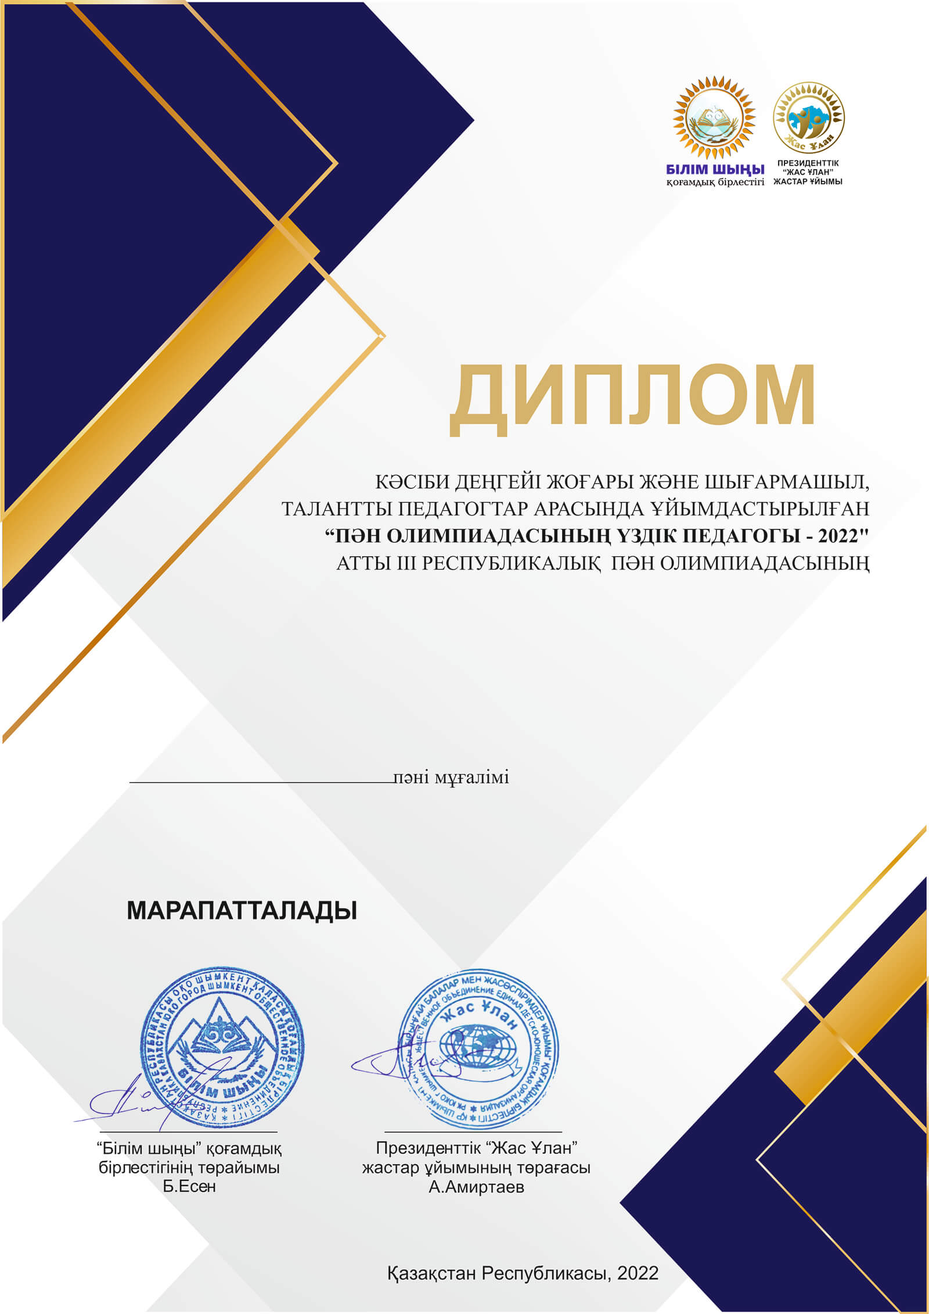
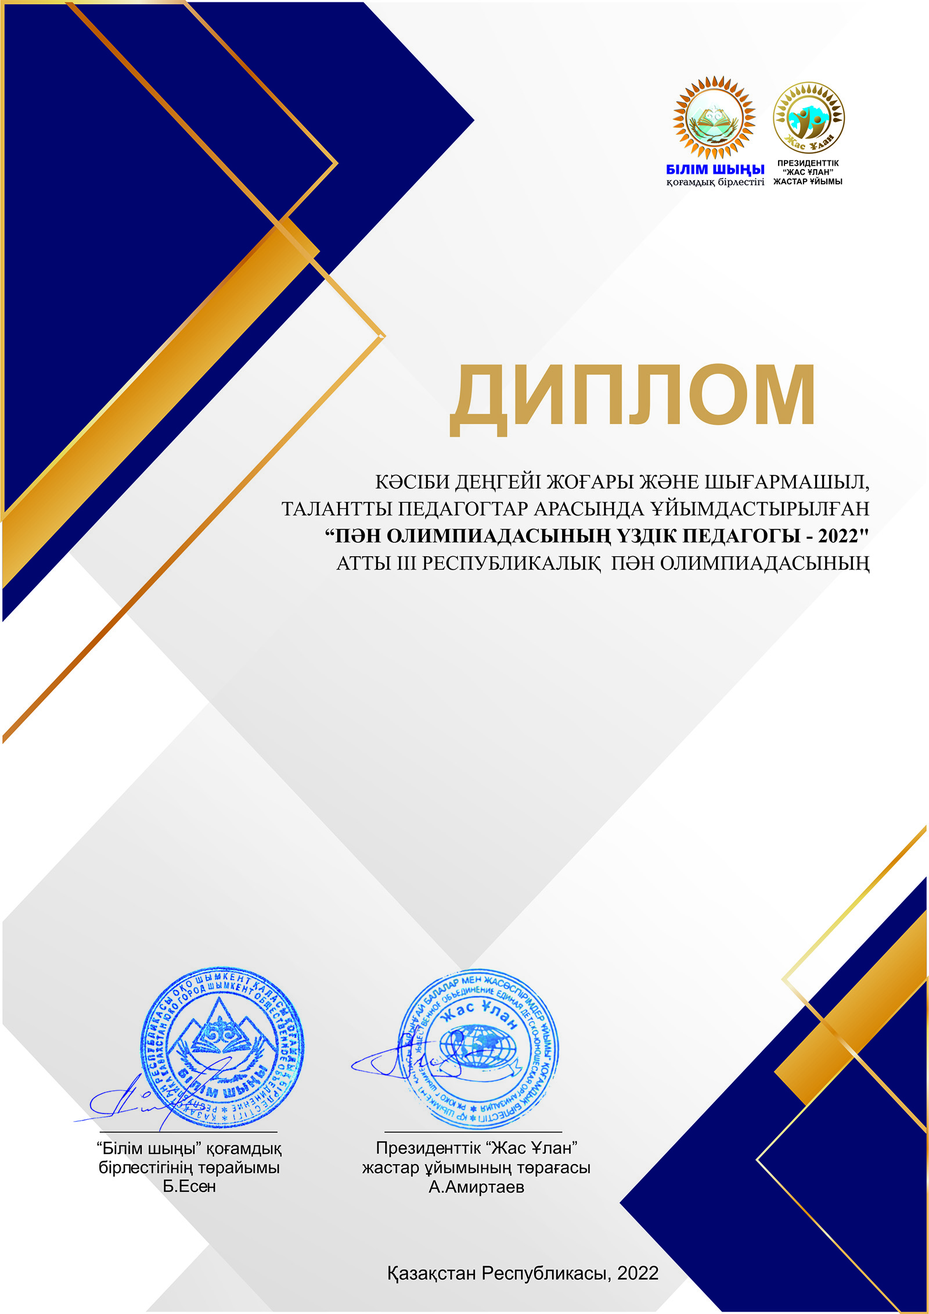
Olympiad fixes

diff --git a/frontend/views/site/index.php b/frontend/views/site/index.php
@@ -45,7 +45,7 @@ $this->registerMetaTag([
                              data-paddingbottom="['15','8','8','8']"
                              data-paddingright="['0','0','0','0']"
                              data-paddingleft="['0','0','0','0']"
-                             style="text-shadow: 0 0 20px rgba(0,0,0,0.3); font-style: italic;">ЖАРЫС! ЖАРЫС! ЖАРЫС!</div>
+                             style="text-shadow: 0 0 20px rgba(0,0,0,0.3);">Портфолиоға 100% жарамды</div>
 
                         <!-- main text layer -->
                         <div class="tp-caption tp-resizeme alt-font text-white font-weight-600"
@@ -53,23 +53,38 @@ $this->registerMetaTag([
                              data-frames='[{"delay":200,"speed":2000,"frame":"0","from":"y:[100%];z:0;rX:0deg;rY:0;rZ:0;sX:1;sY:1;skX:0;skY:0;opacity:0;","mask":"x:0px;y:[-100%];s:inherit;e:inherit;","to":"o:1;","ease":"Power2.easeInOut"},{"delay":"wait","speed":300,"frame":"999","to":"auto:auto;","ease":"Power3.easeInOut"}]'
                              data-type="text"
                              data-whitespace="nowrap"
-                             data-x="['left','center','center','center']"
-                             data-hoffset="['0','0','0','0']"
-                             data-y="['middle','middle','middle','middle']"
-                             data-voffset="['-20','-50','-115','-65']"
+                             data-x="['left','center','center','center']" data-hoffset="['0','0','0','0']"
+                             data-y="['middle','middle','middle','middle']" data-voffset="['-50','-50','-115','-65']"
                              data-width="auto"
                              data-height="auto"
                              data-fontsize="['70','53','60','35']"
-                             data-lineheight="['82','79','70','39']"
-                             data-letterspacing="['0','0','0','0']"
+                             data-lineheight="['70','59','70','39']"
+                             data-letterspacing="['-2','-1','-1','-1']"
                              data-responsive="on"
                              data-responsive_offset="on"
                              data-paddingtop="['0','0','0','0']"
                              data-paddingbottom="['15','8','8','8']"
                              data-paddingright="['0','0','0','0']"
                              data-paddingleft="['0','0','0','0']"
-                             style="text-shadow: 0 0 20px rgba(0,0,0,0.3);">«ЖАҢА ҚАЗАҚСТАН: <br>
-ЖАҚСЫ МҰҒАЛІМ»</div>
+                             style="text-shadow: 0 0 20px rgba(0,0,0,0.3);">"БАСПАСӨЗ-2022"</div>
+
+                        <!-- small text layer -->
+                        <div class="tp-caption tp-resizeme alt-font text-white font-weight-300"
+                             id="slide-411-layer-02"
+                             data-frames='[{"delay":1200,"speed":1000,"frame":"0","from":"y:[100%];z:0;rX:0deg;rY:0;rZ:0;sX:1;sY:1;skX:0;skY:0;opacity:0;","mask":"x:0px;y:[-100%];s:inherit;e:inherit;","to":"o:1;","ease":"Power2.easeInOut"},{"delay":"wait","speed":300,"frame":"999","to":"auto:auto;","ease":"Power3.easeInOut"}]'
+                             data-type="text"
+                             data-x="['left','center','center','center']" data-hoffset="['0','0','0','0']"
+                             data-y="['middle','middle','middle','middle']" data-voffset="['65','100','-5','15']"
+                             data-width="auto"
+                             data-height="auto"
+                             data-fontsize="['19','16','19','14']"
+                             data-lineheight="['28','14','23','20']"
+                             data-letterspacing="['0.5','0.5','0.5','0.5']"
+                             data-responsive="off"
+                             data-responsive_offset="on">
+                            БІЛІМ, ҒЫЛЫМ - МӘҢГІЛІК ҚАЗЫҒЫМЫЗ <br>
+                            ҚҰРМЕТТІ ҰСТАЗ, ЖУРНАЛҒА ЖАЗЫЛЫҢЫЗ!
+                        </div>
 
                         <!-- btn layer -->
                         <a class="tp-caption tp-resizeme rs-btn btn btn-rounded d-flex align-items-center justify-content-center"
@@ -88,7 +103,7 @@ $this->registerMetaTag([
                            data-paddingright="['7','7','7','7']"
                            data-paddingleft="['34','34','34','34']"
                            style="background-color: #00B057; color: #fff; font-size: 15px;">
-                            <?= Yii::t('app', 'Опубликовать материал') ?>
+                            <?= Yii::t('app', 'Подробнее') ?>
                             <div style="display: flex; justify-content: center; align-items: center; width: 38px; height: 38px; border-radius: 50%; background: #007C3E; margin-left: 19px;">
                                 <i class="fas fa-play" style="color: #fff; font-size: 12px; line-height: 15px; margin-top: 2px; margin-left: 3px;"></i>
                             </div>
@@ -101,26 +116,6 @@ $this->registerMetaTag([
                         <img src="/img/fon-5.jpg" alt="" data-bgcolor="#262b32" data-bgposition="center center" data-bgfit="cover" data-bgrepeat="no-repeat" data-bgparallax="off" class="rev-slidebg" data-no-retina>
 
                         <div class="overlay-bg bg-extra-dark-gray" style="opacity: 0.5;"></div>
-
-                        <div class="tp-caption tp-resizeme alt-font text-white font-weight-600 text-center"
-                             id="slide-411-layer-04"
-                             data-frames='[{"delay":200,"speed":2000,"frame":"0","from":"y:[100%];z:0;rX:0deg;rY:0;rZ:0;sX:1;sY:1;skX:0;skY:0;opacity:0;","mask":"x:0px;y:[-100%];s:inherit;e:inherit;","to":"o:1;","ease":"Power2.easeInOut"},{"delay":"wait","speed":300,"frame":"999","to":"auto:auto;","ease":"Power3.easeInOut"}]'
-                             data-type="text"
-                             data-whitespace="nowrap"
-                             data-x="['center','center','center','center']" data-hoffset="['0','0','0','0']"
-                             data-y="['middle','middle','middle','middle']" data-voffset="['-140','-50','-160','-100']"
-                             data-width="auto"
-                             data-height="auto"
-                             data-fontsize="['52','53','36','22']"
-                             data-lineheight="['70','59','70','39']"
-                             data-letterspacing="['-2','-1','-1','-1']"
-                             data-responsive="off"
-                             data-responsive_offset="off"
-                             data-paddingtop="['0','0','0','0']"
-                             data-paddingbottom="['15','8','8','8']"
-                             data-paddingright="['0','0','0','0']"
-                             data-paddingleft="['0','0','0','0']"
-                             style="text-shadow: 0 0 20px rgba(0,0,0,0.3);">ОЛИМПИАДА</div>
 
                         <!-- main text layer -->
                         <div class="tp-caption tp-resizeme alt-font text-white font-weight-600 text-center"
@@ -141,47 +136,7 @@ $this->registerMetaTag([
                              data-paddingbottom="['15','8','8','8']"
                              data-paddingright="['0','0','0','0']"
                              data-paddingleft="['0','0','0','0']"
-                             style="text-shadow: 0 0 20px rgba(0,0,0,0.3);">«ALTYN URPAQ»</div>
-
-                        <!-- small text layer -->
-                        <div class="tp-caption tp-resizeme alt-font text-white font-weight-300 text-center"
-                             id="slide-411-layer-05"
-                             data-frames='[{"delay":1200,"speed":1000,"frame":"0","from":"y:[100%];z:0;rX:0deg;rY:0;rZ:0;sX:1;sY:1;skX:0;skY:0;opacity:0;","mask":"x:0px;y:[-100%];s:inherit;e:inherit;","to":"o:1;","ease":"Power2.easeInOut"},{"delay":"wait","speed":300,"frame":"999","to":"auto:auto;","ease":"Power3.easeInOut"}]'
-                             data-type="text"
-                             data-x="['center','center','center','center']" data-hoffset="['0','0','0','0']"
-                             data-y="['middle','middle','middle','middle']" data-voffset="['80','100','-5','15']"
-                             data-width="auto"
-                             data-height="auto"
-                             data-fontsize="['24','13','19','18']"
-                             data-lineheight="['28','14','23','20']"
-                             data-letterspacing="['0.5','0.5','0.5','0.5']"
-                             data-responsive="off"
-                             data-responsive_offset="on">
-                            2 - 11 сынып оқушылары үшін
-                        </div>
-
-                        <!-- btn layer -->
-                        <a class="tp-caption tp-resizeme rs-btn btn btn-rounded d-flex align-items-center justify-content-center"
-                           href="<?= Url::to(['olympiad/assignment', 'id' => 88]) ?>"
-                           id="slide-411-layer-06"
-                           data-x="['center','center','center','center']" data-hoffset="['0','0','0','0']"
-                           data-y="['middle','middle','middle','middle']" data-voffset="['180','130','82','100']"
-                           data-whitespace="nowrap"
-                           data-type="button"
-                           data-responsive="off"
-                           data-responsive_offset="off"
-                           data-frames='[{"delay":1200,"speed":1000,"frame":"0","from":"y:[100%];z:0;rX:0deg;rY:0;rZ:0;sX:1;sY:1;skX:0;skY:0;opacity:0;","mask":"x:0px;y:[-100%];s:inherit;e:inherit;","to":"o:1;","ease":"Power2.easeInOut"},{"delay":"wait","speed":300,"frame":"999","to":"auto:auto;","ease":"Power3.easeInOut"}]'
-                           data-textAlign="['center','center','center','center']"
-                           data-paddingtop="['8','8','8','8']"
-                           data-paddingbottom="['8','8','8','8']"
-                           data-paddingright="['7','7','7','7']"
-                           data-paddingleft="['34','34','34','34']"
-                           style="background-color: #00B057; color: #fff; font-size: 15px;">
-                            <?= Yii::t('app', 'Участвовать') ?>
-                            <div style="display: flex; justify-content: center; align-items: center; width: 38px; height: 38px; border-radius: 50%; background: #007C3E; margin-left: 19px;">
-                                <i class="fas fa-play" style="color: #fff; font-size: 12px; line-height: 15px; margin-top: 2px; margin-left: 3px;"></i>
-                            </div>
-                        </a>
+                             style="text-shadow: 0 0 20px rgba(0,0,0,0.3);">«Bilimshini.kz»</div>
                     </li>
                     <!-- end slide 02 -->                
                 </ul>

diff --git a/frontend/views/olympiad/_cert.php b/frontend/views/olympiad/_cert.php
@@ -2,9 +2,11 @@
 use Da\QrCode\QrCode;
 
 /* @var $testAssignment \common\models\TestAssignment */
+/* @var $certImage string */
+/* @var $pedagogSubject string | null */
 
 $qrCode = (new QrCode(\yii\helpers\Url::toRoute(['olympiad/get-cert', 'id' => $testAssignment->id], 'https')))
-    ->setSize(100)
+    ->setSize(60)
     ->setMargin(5);
 
 $text = '';
@@ -17,9 +19,18 @@ if ($testAssignment->testOption->test->olympiad_id === 8) {
 }
 ?>
 <div>
-    <div class="cert-page" style="background-image: url('./img/cert.jpg'); background-size: cover; background-repeat: no-repeat; font-size: 18px; font-family: 'Arial'; height: 800px">
-        <div style="padding-left: 320px; padding-top: 270px; text-align: center; width: 800px; text-transform: uppercase;">
-            <div style="font-size: 14px; font-weight: bold; padding-top: 20px; color: #fff">
+    <div class="cert-page" style="background-image: url(<?= './img/' . $certImage ?>); background-size: cover; background-repeat: no-repeat; font-size: 18px; font-family: 'Arial'; height: 800px">
+        <div id="cert-qrcode" style="padding-top: 100px; padding-left: 890px;"><?= '<img src="' . $qrCode->writeDataUri() . '">' ?></div>
+        <div style="padding-left: 120px; padding-top: 110px; text-align: center; width: 600px; text-transform: uppercase;">
+            <div style="font-size: 22px; padding-top: 10px; font-weight: lighter; font-family: 'vCourn'">
+                <b><?= $testAssignment->surname . ' ' . $testAssignment->name . ' ' . $testAssignment->patronymic ?></b>
+            </div>
+            <?php if ($pedagogSubject): ?>
+            <div style="font-size: 14px; padding-top: 20px;">
+                <?= $pedagogSubject ?> <br>
+            </div>
+            <?php endif; ?>
+            <div style="font-size: 14px; <?= !$pedagogSubject ? 'padding-top: 20px' : '' ?>">
                 <?php
                 if ($testAssignment->school !== null) {
                     if ($testAssignment->school->city_id === 1 || $testAssignment->school->city_id === 2 || $testAssignment->school->city_id === 3) {
@@ -29,15 +40,12 @@ if ($testAssignment->testOption->test->olympiad_id === 8) {
                     }
                 } ?>
             </div>
-            <div style="font-size: 14px; font-weight: bold; height: 65px; color: #fff"><?= $testAssignment->school->name ?></div>
-            <div style="font-size: 16px; padding-top: 30px; font-weight: bold;"><?= $testAssignment->grade ?> сынып оқушысы</div>
-            <div style="font-size: 28px; padding-top: 10px; color: #4ba55e; font-weight: lighter; font-family: 'vCourn'">
-                <b><?= $testAssignment->surname . ' ' . $testAssignment->name . ' ' . $testAssignment->patronymic ?></b>
+            <div style="font-size: 14px; height: 65px">
+                <?= $testAssignment->school->name ?>
             </div>
         </div>
-        <div id="cert-qrcode" style="padding-top: 142px; padding-left: 120px;"><?= '<img src="' . $qrCode->writeDataUri() . '">' ?></div>
-        <div style="padding-left: 120px; padding-top: 0">
-            <div id="cert-number" style="font-size: 14px;">№<?= $testAssignment->id ?></div>
+        <div style="padding-left: 420px; padding-top: 270px">
+            <div id="cert-number" style="font-size: 14px;">Тіркеу №<?= $testAssignment->id ?></div>
             <div id="cert-date" style="font-size: 14px; padding-top: 8px"><?= date('d.m.Y') ?> жыл</div>
         </div>
     </div>

diff --git a/frontend/controllers/OlympiadController.php b/frontend/controllers/OlympiadController.php
@@ -332,24 +332,38 @@ class OlympiadController extends Controller
             return $this->redirect(['olympiad/index']);
         }
 
+        $pedagogSubject = null;
+        if ($testAssignment->testOption->test->olympiad_id === 8) {
+            $pedagogSubject = $testAssignment->testOption->test->name . " пәні мұғалімі";
+        }
+
         if ($testAssignment->point >= 15) {
+            $diplomaImage = "uzdik_pedagog.jpg";
+            if ($testAssignment->testOption->test->olympiad_id === 6) {
+                $diplomaImage = "uzdik_boss.jpg";
+            } elseif ($testAssignment->testOption->test->olympiad_id === 7) {
+                $diplomaImage = "uzdik_orinbasar.jpg";
+            }
+
             $place = 'III ОРЫН';
-            if ($testAssignment->point === 30) {
+            if ($testAssignment->point === 20) {
                 $place = 'БАС ЖҮЛДЕ';
             }
 
-            if ($testAssignment->point >= 25 && $testAssignment->point <= 29) {
+            if ($testAssignment->point >= 18 && $testAssignment->point <= 19) {
                 $place = 'I ОРЫН';
             }
 
 
-            if ($testAssignment->point >= 20 && $testAssignment->point <= 24) {
+            if ($testAssignment->point >= 16 && $testAssignment->point <= 17) {
                 $place = 'II ОРЫН';
             }
 
             $content = $this->renderPartial('_diploma', [
                 'testAssignment' => $testAssignment,
-                'place' => $place
+                'place' => $place,
+                'diplomaImage' => $diplomaImage,
+                'pedagogSubject' => $pedagogSubject
             ]);
 
             // setup kartik\mpdf\Pdf component
@@ -375,8 +389,17 @@ class OlympiadController extends Controller
             ]);
 
         } else {
+            $certImage = "uzdik_pedagog_cert.jpg";
+            if ($testAssignment->testOption->test->olympiad_id === 6) {
+                $certImage = "uzdik_boss_cert.jpg";
+            } elseif ($testAssignment->testOption->test->olympiad_id === 7) {
+                $certImage = "uzdik_orinbasar_cert.jpg";
+            }
+
             $content = $this->renderPartial('_cert', [
-                'testAssignment' => $testAssignment
+                'testAssignment' => $testAssignment,
+                'certImage' => $certImage,
+                'pedagogSubject' => $pedagogSubject
             ]);
 
             // setup kartik\mpdf\Pdf component

diff --git a/frontend/views/olympiad/_diploma.php b/frontend/views/olympiad/_diploma.php
@@ -2,13 +2,16 @@
 use Da\QrCode\QrCode;
 
 /* @var $testAssignment \common\models\TestAssignment */
+/* @var $place string */
+/* @var $diplomaImage string */
+/* @var $pedagogSubject string | null */
 
 $qrCode = (new QrCode(\yii\helpers\Url::toRoute(['olympiad/get-cert', 'id' => $testAssignment->id], 'https')))
     ->setSize(80)
     ->setMargin(5);
 ?>
 <div>
-    <div class="cert-page" style="background-image: url('./img/uzdik_boss.jpg'); background-size: cover; background-repeat: no-repeat; font-size: 18px; font-family: 'Arial'; height: 1200px">
+    <div class="cert-page" style="background-image: url(<?= './img/' . $diplomaImage ?>); background-size: cover; background-repeat: no-repeat; font-size: 18px; font-family: 'Arial'; height: 1200px">
         <div id="cert-qrcode" style="padding-top: 140px; padding-left: 40px"><?= '<img src="' . $qrCode->writeDataUri() . '">' ?></div>
         <div style="padding-left: 110px; padding-top: 320px; width: 480px; text-transform: uppercase;">
             <div style="font-size: 30px">
@@ -19,6 +22,9 @@ $qrCode = (new QrCode(\yii\helpers\Url::toRoute(['olympiad/get-cert', 'id' => $t
                     <b><?= $testAssignment->surname . ' ' . $testAssignment->name . ' ' . $testAssignment->patronymic ?></b>
                 </div>
                 <div style="font-size: 11px; padding-top: 20px">
+                    <?php if ($pedagogSubject): ?>
+                        <?= $pedagogSubject ?> <br>
+                    <?php endif; ?>
                     <?php
                     if ($testAssignment->school !== null) {
                         if ($testAssignment->school->city_id === 1 || $testAssignment->school->city_id === 2 || $testAssignment->school->city_id === 3) {
@@ -29,7 +35,6 @@ $qrCode = (new QrCode(\yii\helpers\Url::toRoute(['olympiad/get-cert', 'id' => $t
                     } ?>
                 </div>
                 <div style="font-size: 11px; width: 440px;"><?= $testAssignment->school->name ?></div>
-                <div style="font-size: 11px;"><?= $testAssignment->grade ?> сынып оқушысы</div>
             </div>
         </div>
         <div class="border" style="padding-left: 120px; padding-top: 280px; color: #fff9f6">

diff --git a/frontend/views/site/questions.php b/frontend/views/site/questions.php
@@ -153,8 +153,6 @@ use yii\helpers\Url; ?>
                                 Жауап:  Егер Сіз Дипломды, Сертификатты, Алғыс хатты жүктей алмай қалсаңыз төмендегі батырманы басыңыз.
                                 <br>
                                 <a class="btn btn-primary" href="<?= Url::to(['olympiad/check-cert']) ?>">Сертификат/Диплом қайта жүктеу</a>
-                                <br><br>
-                                <a class="btn btn-primary" href="<?= Url::to(['olympiad/check-cert-thank-leader']) ?>">Алғыс хат МҰҒАЛІМ үшін жүктеу</a>
                             </p>
                         </div>
                     </div>
@@ -330,8 +328,6 @@ use yii\helpers\Url; ?>
                                 Ответ:  Если Вы не можете скачать Диплом, Сертификат, Благодарственное письмо, то
                                 <br>
                                 <a class="btn btn-primary" href="<?= Url::to(['olympiad/check-cert']) ?>">Сертификат/Диплом скачать</a>
-                                <br><br>
-                                <a class="btn btn-primary" href="<?= Url::to(['olympiad/check-cert-thank-leader']) ?>">Благодарственное письмо для руководителя скачать</a>
                             </p>
                         </div>
                     </div>

diff --git a/frontend/views/olympiad/_assignment.php b/frontend/views/olympiad/_assignment.php
@@ -52,6 +52,30 @@ $this->params['heroDescription'] = 'БІЛІМ ШЫҢЫ - ҒЫЛЫМ СЫРЫ';
         ]); ?>
         <small class="text-secondary"><?= Yii::t('app', 'Если вы не нашли вашу школу, напишите нам bilimshini.kz@mail.ru') ?></small>
 
+        <?= $form->field($model, 'grade')->dropDownList([
+            2 => '2',
+            3 => '3',
+            4 => '4',
+            5 => '5',
+            6 => '6',
+            7 => '7',
+            8 => '8',
+            9 => '9',
+            10 => '10',
+            11 => '11'
+        ], [
+            'id' => 'grade-input',
+            'prompt' => Yii::t('app', 'Выберите класс')
+        ]) ?>
+
+        <div id="leader-name-input-box" style="display: none">
+            <?= $form->field($model, 'leader_name')->textInput(['id' => 'leader-name-input']) ?>
+        </div>
+
+        <div id="leader-name-second-input-box" style="display: none">
+            <?= $form->field($model, 'leader_name_second')->textInput(['id' => 'leader-name-second-input']) ?>
+        </div>
+
         <?= $form->field($model, 'lang')->dropDownList([
             'kz' => 'Қазақша',
             'ru' => 'Русский'

diff --git a/common/models/TestAssignment.php b/common/models/TestAssignment.php
@@ -23,8 +23,8 @@ use yii\helpers\ArrayHelper;
  * @property string $lang
  * @property int|null $created_at
  *
- * @property TestOption $test_option
- * @property TestAssignment $school
+ * @property TestOption $testOption
+ * @property School $school
  * @property int $point [int(11)]
  * @property int $finished_at [int(11)]
  * @property string $patronymic [varchar(255)]
@@ -55,7 +55,7 @@ class TestAssignment extends \yii\db\ActiveRecord
     {
         return [
             [['test_option_id', 'school_id', 'grade', 'point', 'created_at'], 'integer'],
-            [['name', 'surname', 'iin', 'school_id', 'leader_name', 'grade', 'lang'], 'required'],
+            [['name', 'surname', 'iin', 'school_id', 'lang'], 'required'],
             [['name', 'surname', 'patronymic', 'leader_name', 'leader_name_second', 'leader_name_third', 'parent_name'], 'string', 'max' => 255],
             [['iin'], 'string', 'max' => 20],
             [['test_option_id'], 'exist', 'skipOnError' => true, 'targetClass' => TestOption::className(), 'targetAttribute' => ['test_option_id' => 'id']],

diff --git a/frontend/views/olympiad/test.php b/frontend/views/olympiad/test.php
@@ -42,11 +42,6 @@ $this->params['breadcrumbs'][] = ['label' => $this->title, 'url' => ['subject/te
                         <span class="spinner-border spinner-border-sm" role="status" aria-hidden="true" v-if="!isSent"></span>
                         <?= Yii::t('app', 'Получить сертификат/диплом') ?>
                     </a>
-                    <br><br>
-                    <a class="btn btn-success" :class="!isSent ? 'disabled-link' : ''" href="<?= \yii\helpers\Url::to(['/olympiad/get-cert-thank-leader', 'id' => $assignment_id]) ?>" download>
-                        <span class="spinner-border spinner-border-sm" role="status" aria-hidden="true" v-if="!isSent"></span>
-                        <?= Yii::t('app', 'Получить благодарственное письмо для руководителя') ?>
-                    </a>
                 </div>
             </div>
         </div>

diff --git a/backend/views/article/index.php b/backend/views/article/index.php
@@ -1,8 +1,10 @@
 <?php
 
 use common\models\Article;
+use common\models\Subject;
 use insolita\wgadminlte\LteBox;
 use insolita\wgadminlte\LteConst;
+use yii\helpers\ArrayHelper;
 use yii\helpers\Html;
 use yii\grid\GridView;
 
@@ -53,7 +55,8 @@ $this->params['breadcrumbs'][] = $this->title;
                 'attribute' => 'subject_id',
                 'value' => function(Article $model) {
                     return $model->subject !== null ? $model->subject->name : 'Не указано';
-                }
+                },
+                'filter' => ArrayHelper::map(\common\models\Subject::find()->where(['type' => Subject::TYPE_ARTICLE])->asArray()->all(), 'id', 'name_ru')
             ],
             [
                 'attribute' => 'created_at',
